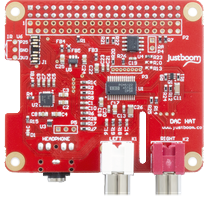
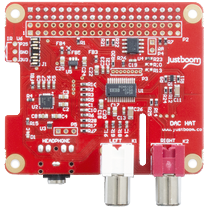
Added new PiPoE, Changed Buttons to SWs in PaPiRus boards and changed pictures, Changed JustBoom DAC and Digi HATs for error on silk screen

diff --git a/src/en/overlay/pi-poe.md b/src/en/overlay/pi-poe.md
@@ -1,0 +1,55 @@
+<!--
+---
+name: Pi PoE Switch HAT
+class: board
+type: power
+formfactor: Custom
+manufacturer: Pi Supply
+description: The Pi PoE Switch HAT is a power over ethernet add-on board for the Raspberry Pi
+url: https://www.kickstarter.com/projects/pisupply/pi-poe-switch-hat-power-over-ethernet-for-raspberr
+github: https://github.com/PiSupply/PiPoE
+buy: https://www.pi-supply.com/product/pi-poe-switch-hat-power-over-ethernet-for-raspberry-pi/
+image: 'pisupply-pi-poe.png'
+pincount: 40
+eeprom: setup
+power:
+  '1':
+  '2':
+ground:
+  '6':
+  '9':
+  '14':
+  '20':
+  '25':
+  '30':
+  '34':
+  '39':
+pin:
+  '11':
+    name: Power Management
+  '15':
+    name: LED Green/Yellow
+  '16':
+    name: LED Green
+  '18':
+    name: LED Yellow/Green
+-->
+#Pi PoE Switch HAT
+The Pi PoE Switch HAT is an add on board for the Raspberry Pi that brings the Pi Supply Switch technology together with PoE all in one fantastic package!
+
+You can now power your Raspberry Pi and provide an Ethernet connection in any location with just a single cable. Perfect for removing the clutter of wires and for reliable use in remote locations.
+
+* Fully 802.3af (mode A and B) compliant active power over Ethernet
+* Contains physical layer power negotiation circuitry, presenting itself as a Class 0 device
+* Fully isolated switched mode power supply (SMPS) - 1500V isolation input to output
+* Overload and short circuit protection
+* Over temperature protection
+* High efficiency (up to 87%) regulated output
+* Input voltage 36-56V, output voltage 5V, output current 10-1300mA, max output power 6.5W
+* Onboard ATtiny 13A microcontroller for power management functionality
+* Leaves all unused GPIO free for use with other add on boards
+
+The onboard optional jumper toggles the power functionality:
+* Jumper on. The Pi PoE will power on after holding the power button for two seconds
+* Jumper off. The Pi PoE will power on as soon as you apply power from your injector
+

diff --git a/src/en/overlay/papirus-zero.md b/src/en/overlay/papirus-zero.md
@@ -52,23 +52,23 @@ pin:
   '26':
     mode: spi
   '35':
-    name: Button 3
+    name: SW4
     mode: input
     active: low
   '36':
-    name: Button 4
+    name: SW2
     mode: input
     active: low
   '37':
-    name: Button 2
+    name: SW5
     mode: input
     active: low  
   '38':
-    name: Button 1
+    name: SW3
     mode: input
     active: low
   '40':
-    name: Button 5
+    name: SW1
     mode: input
     active: low
 -->

diff --git a/src/en/overlay/papirus-hat.md b/src/en/overlay/papirus-hat.md
@@ -56,19 +56,19 @@ pin:
   '26':
     mode: spi
   '36':
-    name: Button 1
+    name: SW1
     mode: input
     active: low
   '37':
-    name: Button 2
+    name: SW2
     mode: input
     active: low  
   '38':
-    name: Button 3
+    name: SW3
     mode: input
     active: low
   '40':
-    name: Button 4
+    name: SW4
     mode: input
     active: low
 -->
